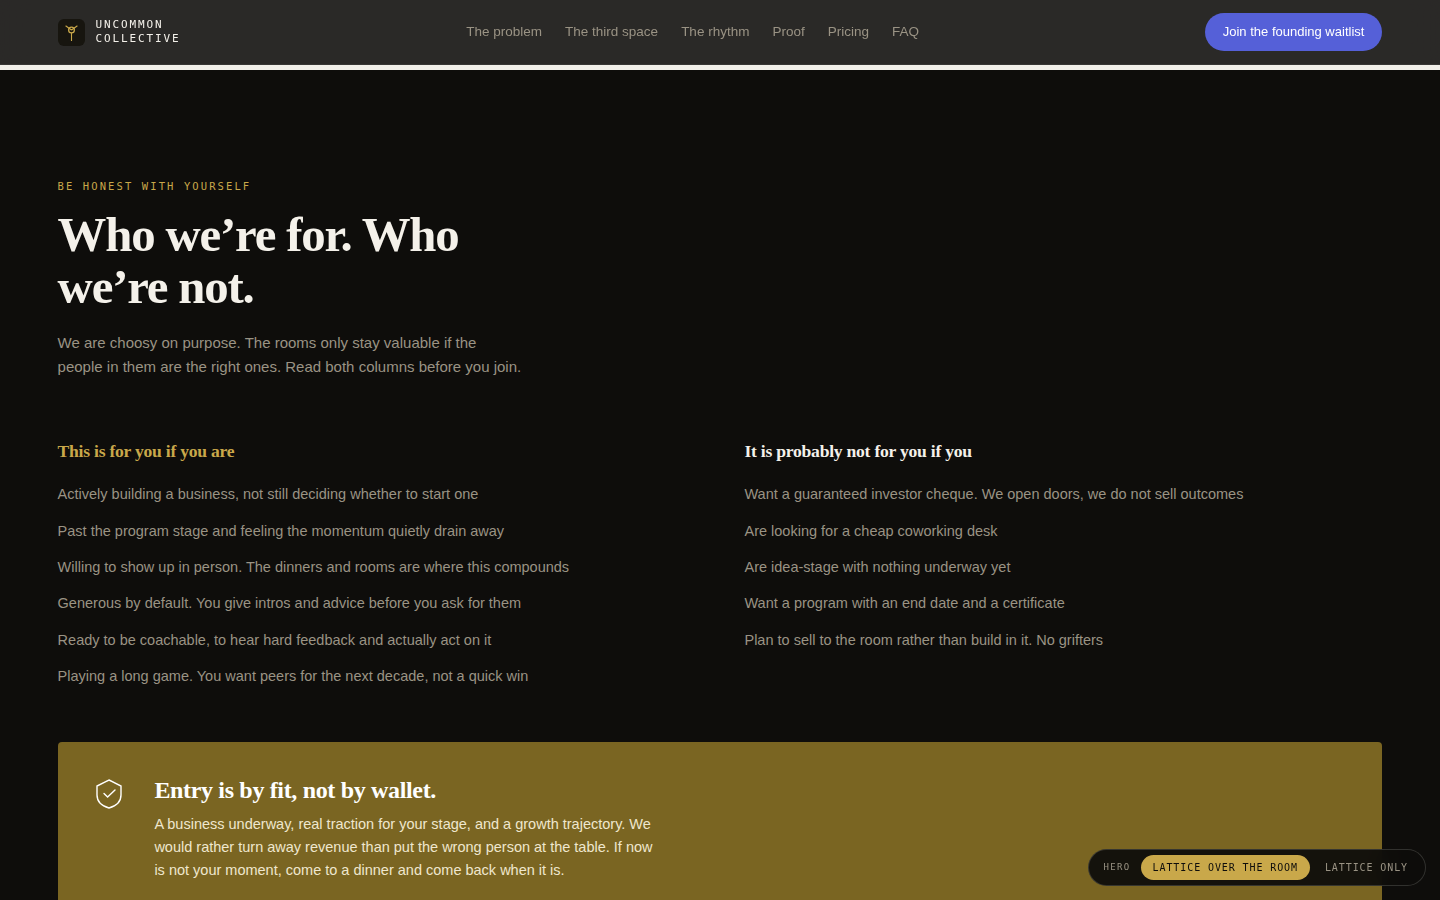
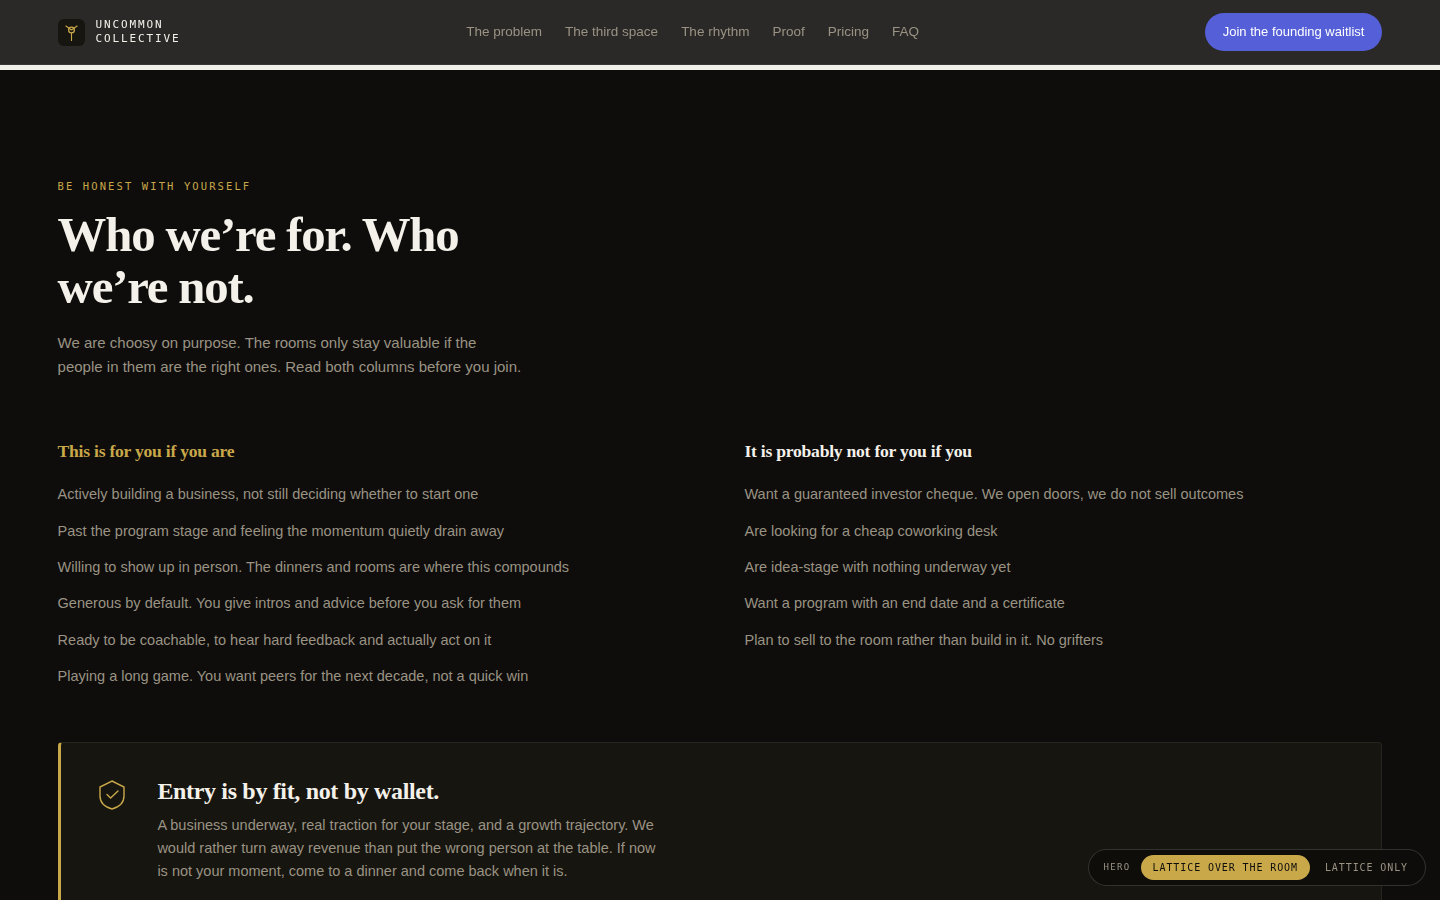
Gold: muted mustard #BBAB69, dark ink, one gold surface
Two changes to the gold, both from client direction.

The ground is now #BBAB69, the muted mustard specified. It replaces
#7A6522, which had been deepened specifically so white would clear the
body floor on it.

That deepening is no longer needed, and white is no longer correct.
#BBAB69 is a LIGHT gold: luminance .41. Measured on it:

  dark ink #14120E   8.14   pass
  secondary #3A3118  5.60   pass
  bone #F4F1EA       2.04   fail
  white #FFFFFF      2.30   fail

So this ground takes dark ink. The instruction to try white was
conditional on black failing; black does not fail here, it is the
strongest option on the page. White would have been unreadable.

Gold surfaces cut from four to one. The founding band keeps it. The two
callout panels (entry criteria, risk reversal) now inherit whatever
ground they sit on and take their emphasis from a gold left rule and a
raised surface instead, which also fixes their token scoping for free.
The comparison table's UC column keeps the tint, since there it is a
functional column highlight rather than a background.

Verified: 369 painted text nodes, 0 below threshold, lowest 5.18, up
from 4.58.

Claude-Session: https://claude.ai/code/session_015Zffo6382vvso58c1SFNTt

Changed region(s): [[0.0312, 0.8089, 0.9688, 1.0]]

diff --git a/scrollcraft/builds/uc-pro-group/UC-Pro-Group-landing.html b/scrollcraft/builds/uc-pro-group/UC-Pro-Group-landing.html
@@ -23,9 +23,10 @@
   --ink:#14120E;   --ink-2:#1A1A1A;
   --gold:#8A7328;          /* the brand gold. Accent only.               */
   --gold-lift:#C9A84A;     /* lifted for dark grounds: 7.6 on near-black  */
-  --gold-ground:#7A6522;   /* the brand gold, deepened until WHITE clears
-                              the 4.5 body floor on it (5.64). Bright gold
-                              tops out at 3.27 for white, which fails.    */
+  --gold-ground:#BBAB69;   /* muted mustard, specified by the client. It is
+                              a LIGHT gold (luminance .41), so it takes dark
+                              ink at 8.14. White on it is 2.30 and fails,
+                              which is why this ground is not white-on-gold. */
   --indigo-d:#5560D8;      /* on dark: 3.72 edge, white on it 5.18       */
   --indigo-l:#3B48A8;      /* on light: 6.88 edge, white on it 7.84      */
 
@@ -62,11 +63,11 @@
   --line:rgba(26,26,26,.16); --line-2:rgba(26,26,26,.08);
   background:var(--g); color:var(--fg);
 }
-.gold,.callout{
-  --g:var(--gold-ground); --fg:#FFFFFF; --fg-2:#EFE7CE;
-  --acc:#FFFFFF; --acc-text:#FFFFFF;
-  --cta:#FFFFFF; --cta-fg:#14120E; --card:rgba(255,255,255,.10);
-  --line:rgba(255,255,255,.32); --line-2:rgba(255,255,255,.17);
+.gold{
+  --g:var(--gold-ground); --fg:#14120E; --fg-2:#3A3118;   /* 8.14 / 5.60 */
+  --acc:#14120E; --acc-text:#14120E;
+  --cta:#14120E; --cta-fg:#F4F1EA; --card:rgba(255,255,255,.22);
+  --line:rgba(20,18,14,.30); --line-2:rgba(20,18,14,.15);
   background:var(--g); color:var(--fg);
 }
 
@@ -225,13 +226,15 @@ html[data-graphic="room"] .stage__photo{opacity:1}
 
 /* -------------------------------------------------------- gold callout - */
 .callout{
-  border-radius:4px; padding:clamp(22px,2.6vw,34px);
+  background:var(--card); border:1px solid var(--line-2);
+  border-left:3px solid var(--acc); border-radius:4px;
+  padding:clamp(22px,2.6vw,34px);
   display:flex; gap:clamp(16px,2vw,30px); align-items:flex-start; flex-wrap:wrap;
 }
 .callout h3{font-size:clamp(1.15rem,1.7vw,1.5rem);line-height:1.2;margin-bottom:8px}
 .callout p{margin:0;font-size:14.5px;line-height:1.6;color:var(--fg-2);max-width:62ch}
 .callout__i{flex:none;width:34px;height:34px}
-.callout__i [data-s]{fill:none;stroke:var(--fg);stroke-width:1.4;stroke-linecap:round}
+.callout__i [data-s]{fill:none;stroke:var(--acc);stroke-width:1.4;stroke-linecap:round}
 
 /* ================================================== the peak, §5 ======= */
 .peak__plate{position:relative;margin-top:clamp(28px,4vw,52px);
@@ -326,21 +329,21 @@ html[data-graphic="room"] .stage__photo{opacity:1}
 
 /* ======================================================= founding gold = */
 .count{display:flex;gap:clamp(10px,1.4vw,20px);flex-wrap:wrap;margin-top:26px}
-.count div{background:rgba(16,13,4,.16);border:1px solid rgba(255,255,255,.24);
+.count div{background:rgba(255,255,255,.26);border:1px solid rgba(20,18,14,.18);
   border-radius:4px;padding:12px 16px;min-width:74px;text-align:center}
 .count b{display:block;font-family:var(--display);font-weight:700;
   font-size:clamp(1.5rem,2.4vw,2.1rem);line-height:1;letter-spacing:-.02em}
 .count span{display:block;margin-top:5px;font-family:var(--mono);font-size:9.5px;
   letter-spacing:.14em;text-transform:uppercase;color:var(--fg-2)}
 .seats{margin-top:26px}
-.seats__bar{height:6px;background:rgba(255,255,255,.22);border-radius:999px;overflow:hidden}
-.seats__bar i{display:block;height:100%;background:#FFFFFF;width:0%}
+.seats__bar{height:6px;background:rgba(20,18,14,.18);border-radius:999px;overflow:hidden}
+.seats__bar i{display:block;height:100%;background:#14120E;width:0%}
 .seats__l{margin:10px 0 0;font-family:var(--mono);font-size:10px;letter-spacing:.13em;
   text-transform:uppercase;color:var(--fg-2)}
 .reversal{display:grid;grid-template-columns:repeat(3,1fr);gap:clamp(14px,2vw,26px);
   margin-top:clamp(28px,3.6vw,48px)}
 @media (max-width:760px){.reversal{grid-template-columns:1fr}}
-.reversal div{border-top:1.5px solid rgba(255,255,255,.34);padding-top:16px}
+.reversal div{border-top:1.5px solid rgba(20,18,14,.32);padding-top:16px}
 .reversal b{display:block;font-family:var(--display);font-weight:700;
   font-size:clamp(1.02rem,1.35vw,1.22rem);margin-bottom:6px}
 .reversal p{margin:0;font-size:13.5px;color:var(--fg-2);line-height:1.55}
@@ -352,7 +355,7 @@ html[data-graphic="room"] .stage__photo{opacity:1}
 .cmp thead th{padding:13px 11px;text-align:left;vertical-align:bottom;
   background:var(--g);color:var(--fg);border-bottom:2px solid var(--acc);font-weight:500}
 .cmp thead th:first-child{min-width:210px}
-.cmp .col-uc{background:var(--gold-ground);color:#FFFFFF;--fg-2:#EFE7CE}
+.cmp .col-uc{background:var(--gold-ground);color:#14120E;--fg-2:#3A3118}
 .cmp .cname{display:block;font-family:var(--display);font-size:13.5px;font-weight:700;
   line-height:1.25;margin-bottom:3px}
 .cmp .cprice{display:block;font-size:10.5px;font-weight:400;color:var(--fg-2);line-height:1.3}
@@ -1137,7 +1140,7 @@ h2.mission em{font-style:italic;color:var(--acc)}
 
     <div style="margin-top:clamp(28px,3.4vw,44px);display:flex;gap:12px;flex-wrap:wrap;align-items:center">
       <a class="btn" href="#founding">Join the founding waitlist</a>
-      <a class="btn btn--ghost" href="#rhythm" style="border-color:rgba(255,255,255,.4)">Come to the next dinner</a>
+      <a class="btn btn--ghost" href="#rhythm" style="border-color:rgba(20,18,14,.34)">Come to the next dinner</a>
       <span class="seats__l" style="margin:0">Then a 15 minute fit call once the group reaches critical mass</span>
     </div>
   </div>

diff --git a/scrollcraft/builds/uc-pro-group/index.html b/scrollcraft/builds/uc-pro-group/index.html
@@ -23,9 +23,10 @@
   --ink:#14120E;   --ink-2:#1A1A1A;
   --gold:#8A7328;          /* the brand gold. Accent only.               */
   --gold-lift:#C9A84A;     /* lifted for dark grounds: 7.6 on near-black  */
-  --gold-ground:#7A6522;   /* the brand gold, deepened until WHITE clears
-                              the 4.5 body floor on it (5.64). Bright gold
-                              tops out at 3.27 for white, which fails.    */
+  --gold-ground:#BBAB69;   /* muted mustard, specified by the client. It is
+                              a LIGHT gold (luminance .41), so it takes dark
+                              ink at 8.14. White on it is 2.30 and fails,
+                              which is why this ground is not white-on-gold. */
   --indigo-d:#5560D8;      /* on dark: 3.72 edge, white on it 5.18       */
   --indigo-l:#3B48A8;      /* on light: 6.88 edge, white on it 7.84      */
 
@@ -62,11 +63,11 @@
   --line:rgba(26,26,26,.16); --line-2:rgba(26,26,26,.08);
   background:var(--g); color:var(--fg);
 }
-.gold,.callout{
-  --g:var(--gold-ground); --fg:#FFFFFF; --fg-2:#EFE7CE;
-  --acc:#FFFFFF; --acc-text:#FFFFFF;
-  --cta:#FFFFFF; --cta-fg:#14120E; --card:rgba(255,255,255,.10);
-  --line:rgba(255,255,255,.32); --line-2:rgba(255,255,255,.17);
+.gold{
+  --g:var(--gold-ground); --fg:#14120E; --fg-2:#3A3118;   /* 8.14 / 5.60 */
+  --acc:#14120E; --acc-text:#14120E;
+  --cta:#14120E; --cta-fg:#F4F1EA; --card:rgba(255,255,255,.22);
+  --line:rgba(20,18,14,.30); --line-2:rgba(20,18,14,.15);
   background:var(--g); color:var(--fg);
 }
 
@@ -225,13 +226,15 @@ html[data-graphic="room"] .stage__photo{opacity:1}
 
 /* -------------------------------------------------------- gold callout - */
 .callout{
-  border-radius:4px; padding:clamp(22px,2.6vw,34px);
+  background:var(--card); border:1px solid var(--line-2);
+  border-left:3px solid var(--acc); border-radius:4px;
+  padding:clamp(22px,2.6vw,34px);
   display:flex; gap:clamp(16px,2vw,30px); align-items:flex-start; flex-wrap:wrap;
 }
 .callout h3{font-size:clamp(1.15rem,1.7vw,1.5rem);line-height:1.2;margin-bottom:8px}
 .callout p{margin:0;font-size:14.5px;line-height:1.6;color:var(--fg-2);max-width:62ch}
 .callout__i{flex:none;width:34px;height:34px}
-.callout__i [data-s]{fill:none;stroke:var(--fg);stroke-width:1.4;stroke-linecap:round}
+.callout__i [data-s]{fill:none;stroke:var(--acc);stroke-width:1.4;stroke-linecap:round}
 
 /* ================================================== the peak, §5 ======= */
 .peak__plate{position:relative;margin-top:clamp(28px,4vw,52px);
@@ -326,21 +329,21 @@ html[data-graphic="room"] .stage__photo{opacity:1}
 
 /* ======================================================= founding gold = */
 .count{display:flex;gap:clamp(10px,1.4vw,20px);flex-wrap:wrap;margin-top:26px}
-.count div{background:rgba(16,13,4,.16);border:1px solid rgba(255,255,255,.24);
+.count div{background:rgba(255,255,255,.26);border:1px solid rgba(20,18,14,.18);
   border-radius:4px;padding:12px 16px;min-width:74px;text-align:center}
 .count b{display:block;font-family:var(--display);font-weight:700;
   font-size:clamp(1.5rem,2.4vw,2.1rem);line-height:1;letter-spacing:-.02em}
 .count span{display:block;margin-top:5px;font-family:var(--mono);font-size:9.5px;
   letter-spacing:.14em;text-transform:uppercase;color:var(--fg-2)}
 .seats{margin-top:26px}
-.seats__bar{height:6px;background:rgba(255,255,255,.22);border-radius:999px;overflow:hidden}
-.seats__bar i{display:block;height:100%;background:#FFFFFF;width:0%}
+.seats__bar{height:6px;background:rgba(20,18,14,.18);border-radius:999px;overflow:hidden}
+.seats__bar i{display:block;height:100%;background:#14120E;width:0%}
 .seats__l{margin:10px 0 0;font-family:var(--mono);font-size:10px;letter-spacing:.13em;
   text-transform:uppercase;color:var(--fg-2)}
 .reversal{display:grid;grid-template-columns:repeat(3,1fr);gap:clamp(14px,2vw,26px);
   margin-top:clamp(28px,3.6vw,48px)}
 @media (max-width:760px){.reversal{grid-template-columns:1fr}}
-.reversal div{border-top:1.5px solid rgba(255,255,255,.34);padding-top:16px}
+.reversal div{border-top:1.5px solid rgba(20,18,14,.32);padding-top:16px}
 .reversal b{display:block;font-family:var(--display);font-weight:700;
   font-size:clamp(1.02rem,1.35vw,1.22rem);margin-bottom:6px}
 .reversal p{margin:0;font-size:13.5px;color:var(--fg-2);line-height:1.55}
@@ -352,7 +355,7 @@ html[data-graphic="room"] .stage__photo{opacity:1}
 .cmp thead th{padding:13px 11px;text-align:left;vertical-align:bottom;
   background:var(--g);color:var(--fg);border-bottom:2px solid var(--acc);font-weight:500}
 .cmp thead th:first-child{min-width:210px}
-.cmp .col-uc{background:var(--gold-ground);color:#FFFFFF;--fg-2:#EFE7CE}
+.cmp .col-uc{background:var(--gold-ground);color:#14120E;--fg-2:#3A3118}
 .cmp .cname{display:block;font-family:var(--display);font-size:13.5px;font-weight:700;
   line-height:1.25;margin-bottom:3px}
 .cmp .cprice{display:block;font-size:10.5px;font-weight:400;color:var(--fg-2);line-height:1.3}
@@ -1137,7 +1140,7 @@ h2.mission em{font-style:italic;color:var(--acc)}
 
     <div style="margin-top:clamp(28px,3.4vw,44px);display:flex;gap:12px;flex-wrap:wrap;align-items:center">
       <a class="btn" href="#founding">Join the founding waitlist</a>
-      <a class="btn btn--ghost" href="#rhythm" style="border-color:rgba(255,255,255,.4)">Come to the next dinner</a>
+      <a class="btn btn--ghost" href="#rhythm" style="border-color:rgba(20,18,14,.34)">Come to the next dinner</a>
       <span class="seats__l" style="margin:0">Then a 15 minute fit call once the group reaches critical mass</span>
     </div>
   </div>
